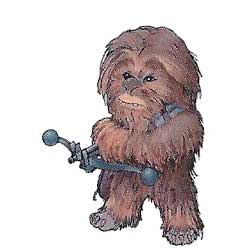
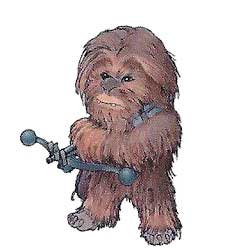
code clean up, image adjustment

diff --git a/assets/javascript/game.js b/assets/javascript/game.js
@@ -33,7 +33,7 @@ $(function () {
                 pwr: { powerBase: 10, attack: 10, counter: 20 }
             },
             {
-                name: 'The Emperor',
+                name: 'Darth Sidious',
                 img: 'assets/images/emperor.jpg',
                 sndName: 'emperor',
                 cont: undefined,
@@ -133,6 +133,8 @@ $(function () {
             }
         }
 
+        //===============  SET UP & OPENING SCREEN ==================== //
+
         // Initializes Game
         function init() {
             // Load Game Sounds
@@ -143,7 +145,7 @@ $(function () {
             for (var i = 1; i <= 4; i++) {
                 addSnd("saber" + i);
             }
-            //
+            // 
             playerChoose.addClass("playerChoose");
             battleground.addClass("battleground");
             comment.addClass('commentArea');
@@ -179,19 +181,19 @@ $(function () {
             var note = $('<h4>');
             note.text('** turn on your speakers **');
             opener.append(note);
-            //
+            // 
             var btn = $('<div>');
             btn.addClass('open-btn');
             opener.append(btn);
-
+            //
             main.append(opener);
+            //
             btn.on("click", function () {
                 img.animate({
                     width: "0px",
                     height: "0px",
                     left: "50%",
                     bottom: "-40%"
-
                 }, 15000, 'easeInCirc', function () {
                     opener.remove();
                     startGame();
@@ -207,7 +209,7 @@ $(function () {
         function startGame() {
             if (firstTime) {
                 // Create all Players
-                $.each(player_arr, createPlayer);
+                $.each(player_arr, buildPlayer);
                 instrUpdate('Choose Your Player');
                 main.append(instr);
                 main.append(playerChoose);
@@ -217,63 +219,88 @@ $(function () {
             playerChoose.removeClass('d-none');
         }
 
+        //===============  PLAYER CREATION & SELECTION  ==================== //
+
         // Function to Create all Players
-        function createPlayer(i, player) {
+        function buildPlayer(i, player) {
             // Player number
             player.pNum = i;
             // Original player settings for resets
             player.orig = { ap: player.pwr.attack, hp: player.health };
-            // 
+            // Adding the player sound
             addSnd(player.sndName);
-            //
-            var newDiv = $('<div>');
-            newDiv.addClass('player');
-            newDiv.attr('id', 'p' + i);
-            //
+
+            // Player Div 
+            var playerDiv = $('<div>');
+            playerDiv.addClass('player');
+            playerDiv.attr('id', 'p' + i);
+
+            // Picture
             var pic = $('<img>');
             pic.attr('src', player.img);
-            //
+
+            // Health
             var healthDiv = $('<div>');
             healthDiv.addClass('health');
+            // heart
             var heart = $('<div>');
             heart.addClass('heart-shape');
             healthDiv.append(heart);
-            //<span class="hp">90</span>
+            // health points #
             var hp = $('<span>');
             hp.addClass('hp');
             hp.text(player.health);
             healthDiv.append(hp);
-            //span>&nbsp;Health Points</span>
+            // health points text
             var span = $('<span>');
             span.html('&nbsp;Health Points');
             healthDiv.append(span);
-            //
+
+            // Name
             var nameDiv = $('<div>');
             nameDiv.addClass('name');
             nameDiv.text(player.name);
             //
-            newDiv.append(pic);
-            newDiv.append(healthDiv);
-            newDiv.append(nameDiv);
-            newDiv.on("click", playerSelect);
-            player.cont = newDiv;
+            playerDiv.append(pic);
+            playerDiv.append(healthDiv);
+            playerDiv.append(nameDiv);
+            playerDiv.on("click", playerSelect);
+            player.cont = playerDiv;
             //
             playerChoose.append(player.cont);
         }
 
+        // CHOOSE PLAYER & OPPONENT
+        function playerSelect(e) {
+            if (player == undefined) {
+                player = player_arr[$(this)[0].id.substr(1)];
+                playerSlot.append($(this));
+                instrUpdate('Choose Your Opponent');
+                playSnd(player.sndName);
+            } else if (opponent == undefined) {
+                opponent = player_arr[$(this)[0].id.substr(1)];
+                opponentSlot.append($(this));
+                playSnd(opponent.sndName);
+                beginAttack();
+            }
+        }
+
+        //===============  SOUND  ==================== //
+
+        // Creating sound objects
         function addSnd(str) {
-            console.log("adding snd: " + str);
             audio[str] = new Audio();
             audio[str].src = "assets/snds/" + str + ".mp3"
         }
 
+        // Play Sound
         function playSnd(str) {
-            console.log("play snd: " + str);
             stopSnd();
             curr_snd = audio[str];
             curr_snd.play();
         }
 
+        // Stop Sound
         function stopSnd() {
             if (curr_snd !== undefined) {
                 curr_snd.pause(); // Stop playing
@@ -281,40 +308,33 @@ $(function () {
             }
         }
 
-        function playerSelect(e) {
-            console.log($(this)[0].id);
-            if (player == undefined) {
-                player = player_arr[$(this)[0].id.substr(1)];
-                playerSlot.append($(this));
-                instrUpdate('Choose Your Opponent');
-                playSnd(player.sndName);
-                console.log(player);
-            } else if (opponent == undefined) {
-                opponent = player_arr[$(this)[0].id.substr(1)];
-                opponentSlot.append($(this));
-                playSnd(opponent.sndName);
-                console.log(opponent);
-                beginAttack();
-            }
-        }
+        //===============  BATTLE  ==================== //
 
+        // Turn on Battleground
         function beginAttack() {
+            //
             instrUpdate(' ');
+            //
             battleground.append(playerSlot);
+            // Attack Button
             battleground.append(attack_btn);
             attack_btn.on("click", attack);
+            //
             battleground.append(opponentSlot);
+            // Turn off player choice array
             playerChoose.addClass('d-none');
             main.append(battleground);
         }
 
+        // On Attack btn press
         function attack(e) {
             // PLAYER ATTACKS
             opponent.health -= player.pwr.attack;
             healthUpdate(opponent);
 
+            // YOU BEAT OPPONENT
             if (opponent.health <= 0) {
-                // You beat them all
+                // YOU BEAT ALL OPPONENTS
                 if ($(playerChoose).children().length === 0) {
                     playSnd("complete");
                     reset();
@@ -340,9 +360,8 @@ $(function () {
             //
             healthUpdate(player);
 
-            //
+            // YOU LOSE
             if (player.health <= 0) {
-                //YOU LOSE
                 playSnd("lose");
                 commentaryUpdate('<p>You have been defeated ... GAME OVER!!</p>');
                 playerSlot.find('.name').css('background-color', '#CC0000');
@@ -351,11 +370,14 @@ $(function () {
                 return;
             }
 
+            // BATTLE CONTINUES
             var rnd = Math.floor(Math.random() * 4) + 1;
             playSnd("saber" + rnd);
             commentaryUpdate();
             player.pwr.attack += player.pwr.powerBase;
         }
+
+        // ===============  DISPLAYS  ==================== //
 
         function healthUpdate(player) {
             var pID = "#p" + player.pNum;
@@ -363,7 +385,6 @@ $(function () {
         }
 
         function commentaryUpdate(str) {
-            console.log($.contains(comment));
             if (!$.contains(comment)) {
                 battleground.append(comment);
             }
@@ -377,6 +398,8 @@ $(function () {
         function instrUpdate(str) {
             instr.text(str);
         }
+
+        //===============  BUTTONS  ==================== //
 
         function playAgain() {
             opponent = undefined;
@@ -394,6 +417,8 @@ $(function () {
             firstTime = true;
             startGame();
         }
+
+        // ===============  RESET  ==================== //
 
         function reset() {
             player = opponent = undefined;
@@ -415,6 +440,7 @@ $(function () {
     var myGame = new StarWarsRPG();
     myGame.play();
 
+    // SKIP BUTTON --- skips opening scene
     $(document).on('keypress', function (e) {
         if (e.key === "S") {
             myGame.skip();
